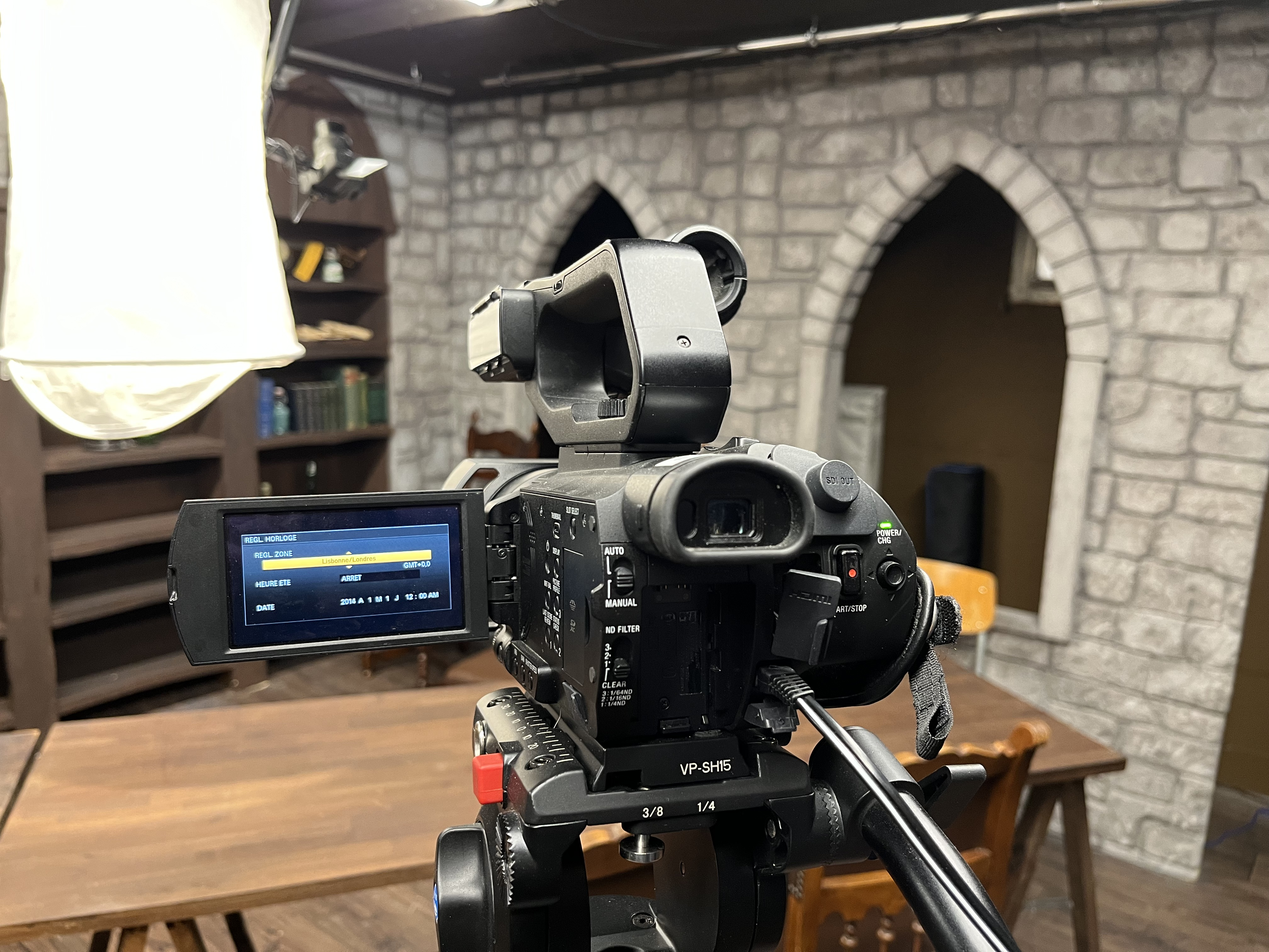
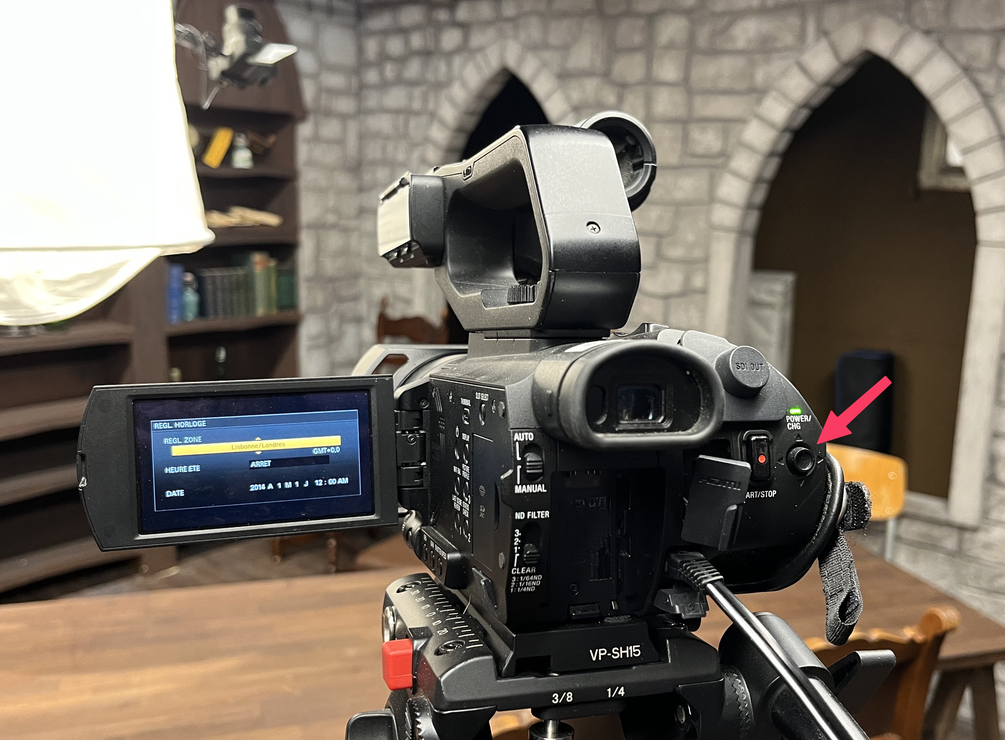
First checklist version

diff --git a/src/components/Checklist.vue b/src/components/Checklist.vue
@@ -9,10 +9,10 @@
 
   <div id="main">
     <h2>1. Ordinateur</h2>
-    <ChecklistItem idItem="power" text="Allumer la multiprise" :isChecked=true />
-    <ChecklistItem idItem="computer_booted" text="Allumer l'ordi" :isChecked=true :pages="pagesForPower" />
+    <ChecklistItem idItem="power" text="Allumer l'alimentation générale" :isChecked=true :pages="pagesForPower" />
+    <ChecklistItem idItem="computer_booted" text="Allumer l'ordi" :isChecked=true :pages="pagesForComputerBooted" />
     <ChecklistItem idItem="open_session" text="Se connecter à la session OSC" :isChecked=true :pages="pagesForSession" />
-    <ChecklistItem idItem="obs_opened" text="Ouvrir OBS" :isChecked=false :pages="pagesForObsOpened" />
+    <ChecklistItem idItem="obs_opened" text="Ouvrir OBS" :isChecked=false />
     <ChecklistItem idItem="spotify_opened" text="Ouvrir Spotify" :isChecked=false :pages="pagesForSpotifyOpened" />
 
     <h2>2. Caméras</h2>
@@ -31,9 +31,9 @@
     <ChecklistItem idItem="obs_welcome" text="Changer le text d'accueil" :isChecked=false :pages="pagesForObsWelcome" />
     
     <h2>5. Lancer le stream</h2>
-    <ChecklistItem idItem="timer_start" text="Lancer timer" :isChecked=false :pages="pagesForTimerStart" />
-    <ChecklistItem idItem="music_start" text="Lancer musique" :isChecked=false :pages="pagesForMusicStart" />
-    <ChecklistItem idItem="stream_start" text="Démarer le stream" :isChecked=false :pages="pagesForStreamStart" />
+    <ChecklistItem idItem="timer_start" text="Lancer le compte à rebours" :isChecked=false :pages="pagesForTimerStart" />
+    <ChecklistItem idItem="music_start" text="Lancer la musique" :isChecked=false :pages="pagesForMusicStart" />
+    <ChecklistItem idItem="stream_start" text="Démarrer le stream" :isChecked=false :pages="pagesForStreamStart" />
 
     <h2>6. Pendant le stream</h2>
     <ChecklistItem idItem="scene_choice" text="Choix de scène" :isChecked=false :pages="pagesForSceneChoice" />
@@ -63,33 +63,40 @@ export default {
     return {
       // Define different pages for each checklist item
       pagesForPower: [
-        { text: "<p>Plug in the power strip</p>", image: "https://via.placeholder.com/150" },
-        { text: "<p>Ensure all devices are connected</p>" },
+        { text: "<p>La multiprise se trouve derrière l'ordinateur</p>", image: require('@/assets/img/powerstrip.jpeg') },
+        { text: "<p>Pour accéder au bouton: <br>enlever momentanément la prise de la table de mixage</p>" },
       ],
       pagesForComputerBooted: [
-        { text: "<p>Press the power button on the computer</p>" },
-        { text: "<p>Wait for the boot sequence to complete</p>" },
+        { text: "<p>Le bouton se trouve en haut au milieu de la façade avant</p>" },
       ],
       pagesForSession: [
-        { text: `
-            <p>Open OBS by performing the following steps:</p>
-            <ol>
-              <li>Locate the shortcut on the desktop.</li>
-              <li>Double-click the shortcut.</li>
-            </ol>
-          `},
+        { text: `<p>Mot de passe de la session: OSC1337</p>`},
       ],
-      pagesForObsOpened: [
-        { text: "<p>Locate the OBS shortcut</p>" },
-        { text: "<p>Double-click to open the software</p>" },
+      pagesForSpotifyOpened: [
+        { text: `<p>N'utiliser <b>que</b> Spotify pour la musique. Le son sera coupé sur la VOD</p>`},
       ],
       pagesForCameraPlacement: [
-        { text: "<p>Les emplacement possible sont marqué par des scotch de couleur sur les barres au plafond</p>" },
-        { text: "<p>Choisir un emplacement, décrocher les câbles correspondant, les brancher à la caméra</p>" },
+        { text: "<p>Les emplacement possible sont marqué par des scotch de couleur sur les barres au plafond</p>", image: require('@/assets/img/IMG_2299.jpeg') },
+        { text: "<p>Choisir un emplacement, décrocher les câbles correspondant</p>", image: require('@/assets/img/IMG_2300.jpeg') },
+        { text: "<p>Brancher les câbles</p>", image: require('@/assets/img/IMG_2309.jpeg') },
       ],
       pagesForCameraOn: [
-        { text: "<p>Power on each camera</p>" },
-        { text: "<p>Verify the feed in the monitor</p>" },
+        { text: "<p>Allumer les caméras en ouvrant l'écran</p>", image: require('@/assets/img/IMG_2303.jpeg') },
+        { text: "<p>Appuyer sur <code>enter</code> plusieurs fois si l'affichage montre le choix date/heure.</p>", image: require('@/assets/img/IMG_2305.jpeg') },
+      ],
+      pagesForCameraTop: [
+        { text: "<p>Allumer la caméra</p>", image: require('@/assets/img/camera_top_power.jpeg') },
+        { text: "<p>Placer la caméra grâce au bras magique</p>" },
+        { text: "<p>Ouvrir le cache et déverouiller l'objectif</p>", image: require('@/assets/img/camera_top_lens.jpeg') },
+      ],
+      pagesForCameraOther: [
+        { text: "<p>Un câble mini HDMI avec un raccord pré-installé est disponible sous la table de régie au besoin.</p>", image: require('@/assets/img/cable_mini_hdmi.jpeg') },
+      ],
+      pagesForStreamStart: [
+        { text: "<p>Un câble mini HDMI avec un raccord pré-installé est disponible sous la table de régie au besoin.</p>", image: require('@/assets/img/streamdeck_tools.png') },
+      ],
+      pagesForSceneChoice: [
+        { text: "<p>Utiliser le Streamdeck pour changer de scène.</p>", image: require('@/assets/img/streamdeck_home.png') },
       ],
     };
   },

diff --git a/src/App.vue b/src/App.vue
@@ -105,6 +105,14 @@ p.subtitle {
   margin-bottom: 2rem;
 }
 
+code {
+  font-size: .7em;
+  background-color: #202124;
+  padding: 4px 8px;
+  border-radius: 4px;
+  vertical-align: .15em;
+}
+
 button {
   background: #3c53c7;
   padding: .7rem 1.5rem;
@@ -118,6 +126,7 @@ button {
 
 img {
   border-radius: 8px;
+  width: 100%;
 }
 
 button:hover {
@@ -138,6 +147,10 @@ button:hover {
 
   .menu {
     background-color: #ffffff;
+  }
+
+  code {
+    color: #ffffff;
   }
   
   .svg-inline--fa {

diff --git a/src/components/Modal.vue b/src/components/Modal.vue
@@ -97,7 +97,7 @@ export default {
 
 .modal-container {
   width: 300px;
-  min-height: 350px;
+  min-height: 400px;
   margin: 0px auto;
   padding: 40px 30px 20px;
   border-radius: 8px;

diff --git a/src/components/ChecklistItem.vue b/src/components/ChecklistItem.vue
@@ -127,6 +127,7 @@ label {
 .cbx a {
   margin-left: 8px;
   color: #ffffff;
+  vertical-align: -2px;
 }
 
 .cbx span:last-of-type:after {
